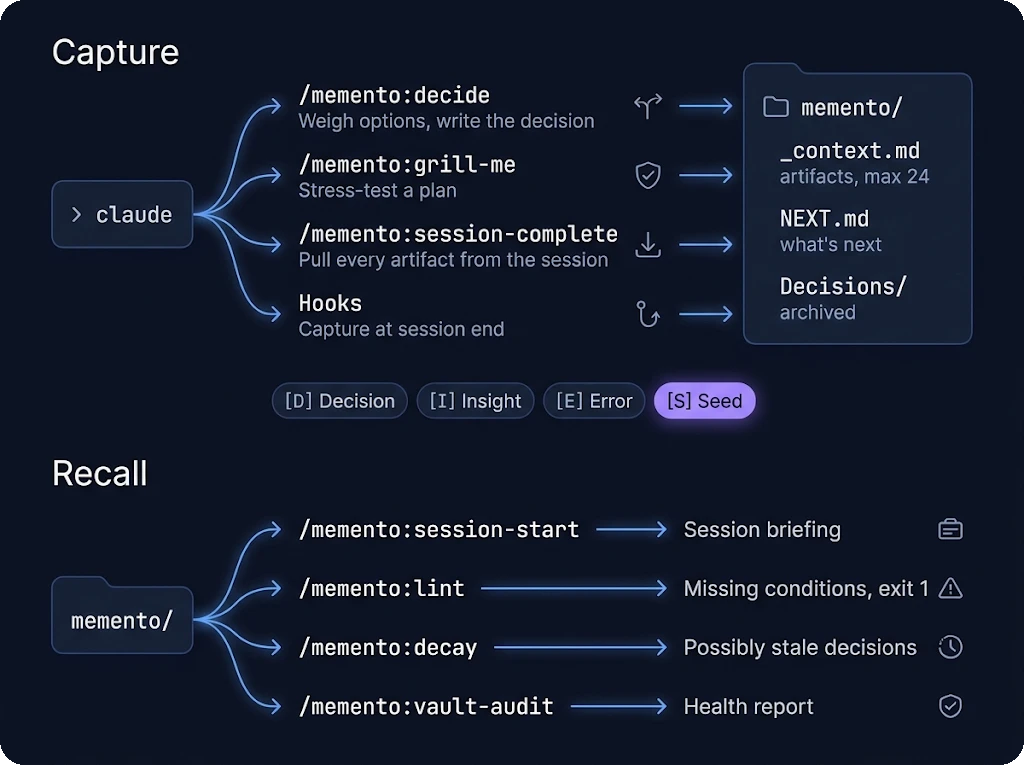
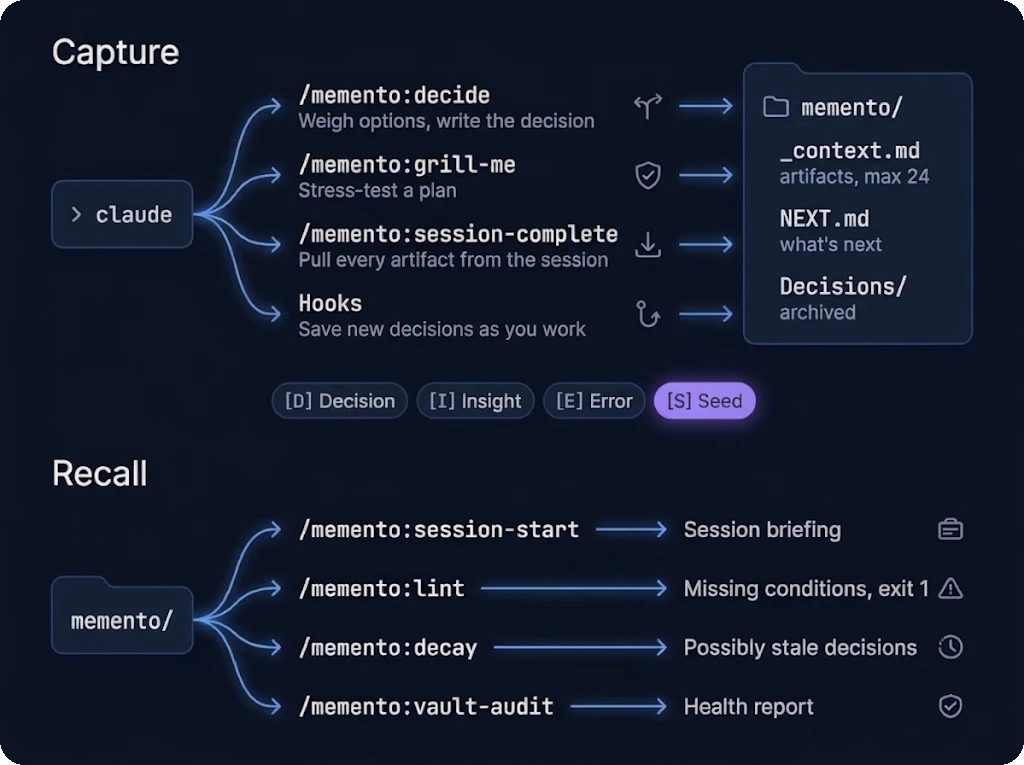
docs: diagram says hooks save new decisions as you work
Stop fires at the end of every turn, not once per session, so the old line
"Capture at session end" was wrong before and after the hook fix.

diff --git a/README.md b/README.md
@@ -66,7 +66,7 @@ Codex, Cursor and the other tools: see [Works With](#works-with).
 ## How It Works
 
 <p align="center">
-  <img src="assets/how-it-works.png" alt="Capture: /memento:decide, /memento:grill-me, /memento:session-complete and the hooks write [D] [I] [E] [S] artifacts into memento/ (_context.md, NEXT.md, Decisions/). Recall: /memento:session-start, /memento:lint, /memento:decay and /memento:vault-audit read them back." width="800">
+  <img src="assets/how-it-works.png" alt="Capture: /memento:decide, /memento:grill-me, /memento:session-complete and the hooks save new [D] [I] [E] [S] artifacts as you work into memento/ (_context.md, NEXT.md, Decisions/). Recall: /memento:session-start, /memento:lint, /memento:decay and /memento:vault-audit read them back." width="800">
 </p>
 
 7 skills. One loop.
